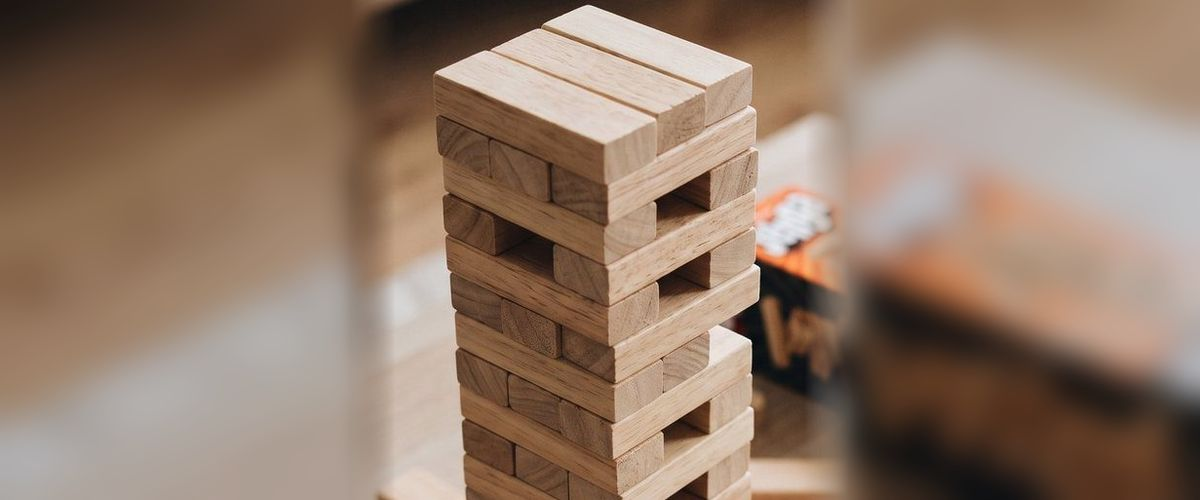
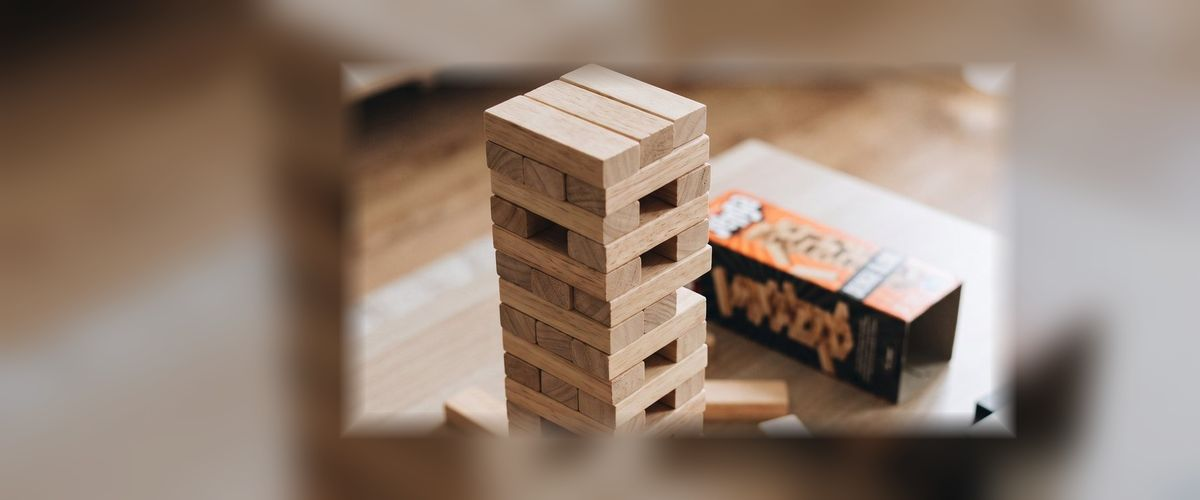
Cenga kapağı: uzaklaştırıldı, kule tam boy görünür
Claude-Session: https://claude.ai/code/session_015xHCxsqnMCZLkthc1BHtYM

diff --git a/index.html b/index.html
@@ -3671,7 +3671,7 @@ const GAMES={
   tombala:{name:'Tombala',icon:'🎱',cat:'card',bg:'linear-gradient(150deg,#3a1030,#7a1f55 55%,#d1468c)',cover:'assets/covers/tombala.jpg'},
   adamasmaca:{name:'Adam Asmaca',icon:'🪢',cat:'board',bg:'linear-gradient(150deg,#1a1430,#3f2a6b 55%,#f0a23c)',cover:'assets/covers/adamasmaca.jpg'},
   passaparola:{name:'Passaparola',icon:'🔠',cat:'board',bg:'linear-gradient(150deg,#06243a,#0d4f6e 55%,#eab308)',cover:'assets/covers/passaparola.jpg'},
-  cenga:{name:'Cenga',icon:'🧱',cat:'board',bg:'linear-gradient(150deg,#2a1b0c,#6b4420 55%,#c99155)',cover:'assets/covers/cenga.jpg?v=20261020'},
+  cenga:{name:'Cenga',icon:'🧱',cat:'board',bg:'linear-gradient(150deg,#2a1b0c,#6b4420 55%,#c99155)',cover:'assets/covers/cenga.jpg?v=20261021'},
   langirt:{name:'Langırt',icon:'⚽',cat:'strategy',bg:'linear-gradient(150deg,#06301c,#10532f 55%,#2bbd6b)',cover:'assets/covers/langirt.jpg'},
   havahokeyi:{name:'Hava Hokeyi',icon:'🏒',cat:'strategy',bg:'linear-gradient(150deg,#041c2e,#0e3550 55%,#36b6f0)',cover:'assets/covers/havahokeyi.jpg'},
   fark:{name:'Fark Bulmaca',icon:'🔍',cat:'board',bg:'linear-gradient(150deg,#123049,#1d6f8f 55%,#67d3c6)',cover:'assets/covers/fark.jpg'},
